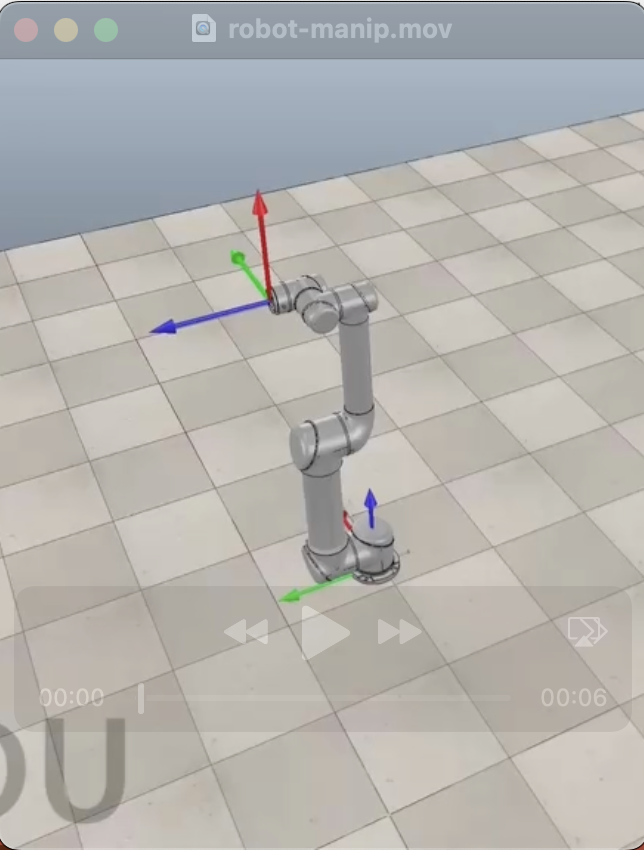
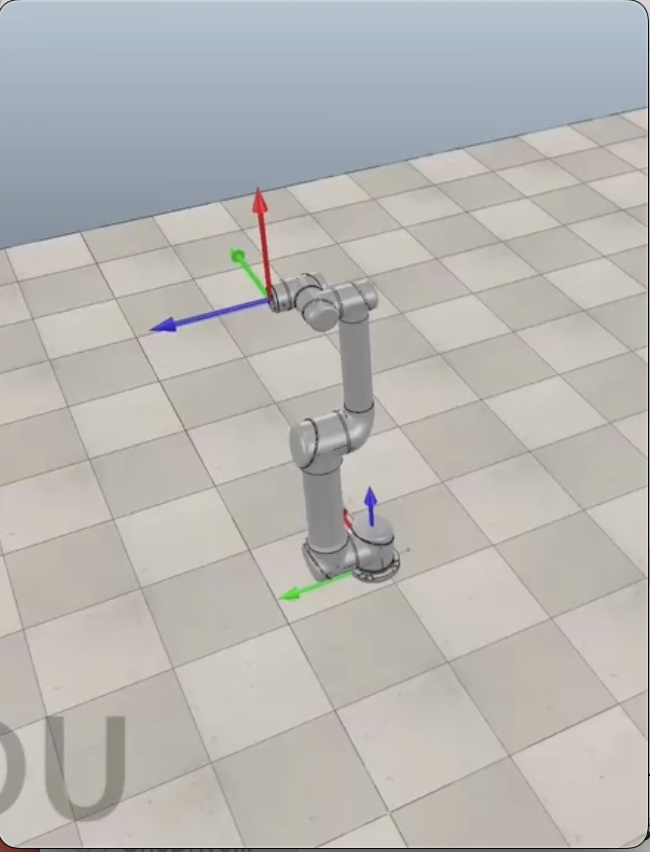
Refactor project metadata structure and templates for improved organization and clarity

diff --git a/projects/infant-pose-pipeline.md b/projects/infant-pose-pipeline.md
@@ -6,7 +6,9 @@ permalink: /projects/infant-pose-pipeline/
 
 # Infant Pose Lifting Evaluation (SRAL)
 
-**Role:** Biomedical ML Research • **Environment:** CUDA-enabled Linux • **Focus:** Evaluation on retrospective, uncalibrated infant videos
+• **Role:** Biomedical ML Research 
+• **Environment:** CUDA-enabled Linux 
+• **Focus:** Evaluation on retrospective, uncalibrated infant videos
 
 <!-- Optional hero image -->
 <!-- ![](/assets/images/sral-hero.jpg){: width="780" } -->

diff --git a/projects/robotic-manipulation.md b/projects/robotic-manipulation.md
@@ -1,4 +1,10 @@
-{% include media-video.html
-  src="/assets/video/projects/test.mp4"
-  caption="Test video layout."
+Paragraph explaining the subsystem...
+
+{% include media-figure.html src="/assets/img/projects/robot-manip.png" caption="Example1." %}
+
+{% include media-side-by-side.html
+  left_src="/assets/img/projects/robot-manip.mp4"
+  left_caption="Before tuning."
+  right_src="/assets/img/projects/robot-manip.mp4"
+  right_caption="After tuning."
 %}

diff --git a/projects/templates/course.md b/projects/templates/course.md
@@ -1,6 +1,7 @@
 ---
 layout: page
-title: "{{PROJECT_TITLE}}"
+title: "Template"
+published: false
 permalink: /projects/{{SLUG}}/
 description: "{{ONE_LINE_OVERVIEW}}"
 tags: [{{TAGS_COMMA_SEPARATED}}]

diff --git a/projects/templates/featured.md b/projects/templates/featured.md
@@ -1,6 +1,7 @@
 ---
 layout: page
-title: "{{PROJECT_TITLE}}"
+title: "Template"
+published: false
 permalink: /projects/{{SLUG}}/
 description: "{{ONE_LINE_OVERVIEW}}"
 tags: [{{TAGS_COMMA_SEPARATED}}]

diff --git a/projects/templates/internship.md b/projects/templates/internship.md
@@ -1,5 +1,6 @@
 ---
 layout: page
+published: false
 title: "{{ORG_OR_LAB}} — {{ROLE_TITLE}}"
 permalink: /projects/{{SLUG}}/
 description: "{{ONE_LINE_FOCUS}}"
